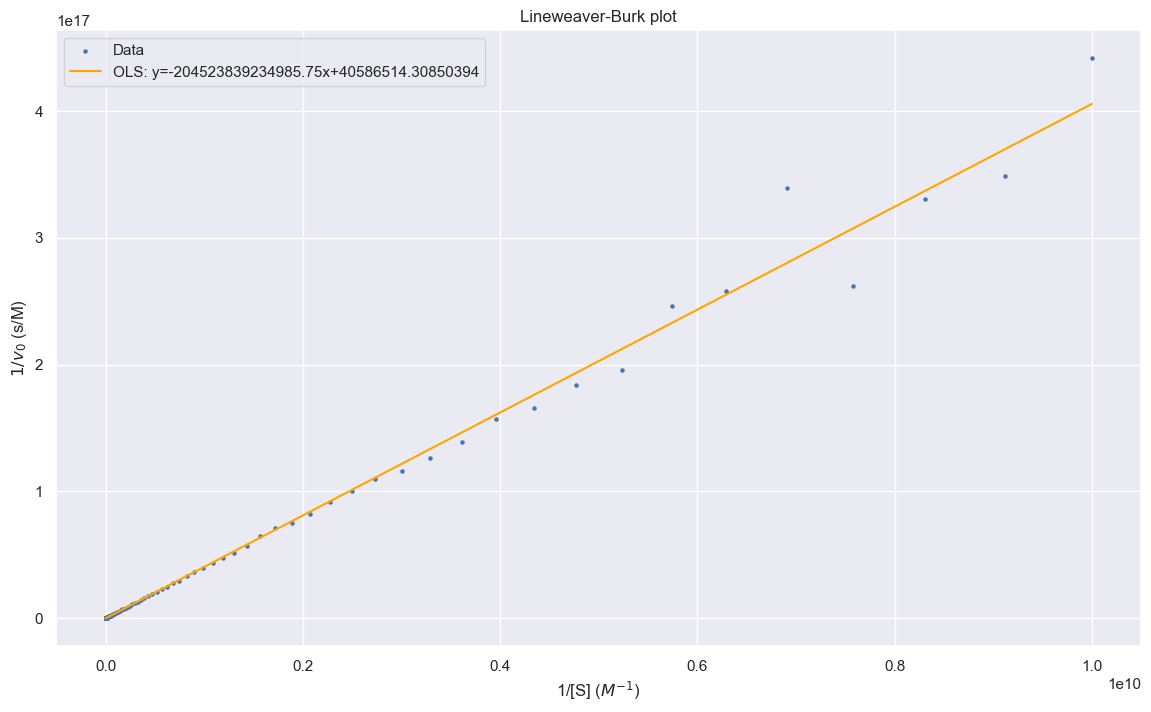
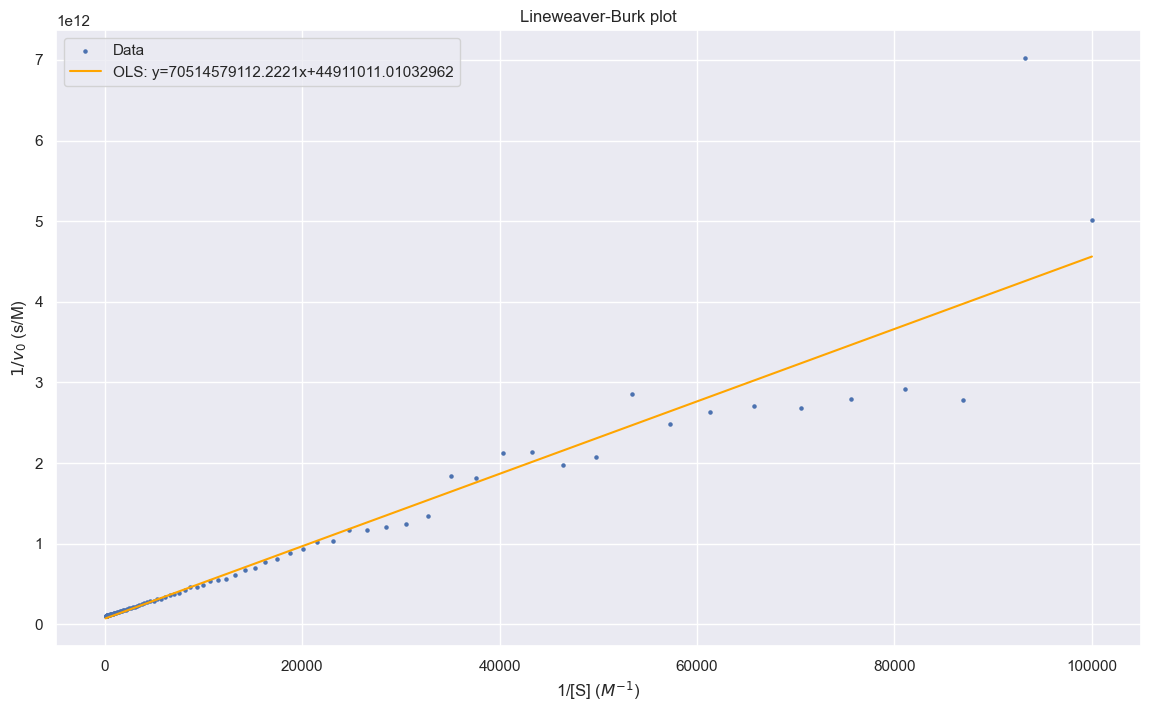
Inhibition

diff --git a/projects/Biophysics-Book/biophysics.html b/projects/Biophysics-Book/biophysics.html
@@ -292,7 +292,23 @@
             where F is the force, D is the dielectric constant for the medium, \(\varepsilon_0\) is the vacuum permittivity (a constant), \(q_i\) is the charge of particle i, and r is the distance between the two charged particles. 
             In this form of Coulomb's Law, a negative value for F means an attractive force and a positive F means a repulsive force. 
 
+            <h4>Morse Potential</h4>
+            The harmonic oscillator/Hooke's law model is treating a molecule as if it were two nuclei connected by a spring in a classical sense. The potential energy is 
+            $$U=\frac{1}{2}k(r-r_e)^2$$
+            where U is your potential energy of the spring, k is your spring constant, r is the distance between the atoms and \(r_e\) is the equilibrium bond distance. So this energy function looks like a parabola with a minimum at \(r=r_e\).
+<br><br>
 
+            This model is pretty decent at describing behavior close to the equilibrium bond distance, but as r gets further away from \(r_e\), we need a better model. This is where the Morse potential comes in. This is an improved version which takes into account things like nuclear-nuclear repulsion from Pauli's exclusion principle and bond dissociation. When r is too small, the Morse potential jumps in potential energy quicker than with a simple Hooke's law approximation. Bonds can't stretch infinitely; bonds break if separation grows too large. The Morse potential takes this into account by having U asymptotically approach a value in the limit as r goes to infinity instead of continuing to increase quadratically. The limit as r approaches infinity is your bond dissociation energy.
+The equation for the morse potential is given by 
+$$U(r)=D_e (1-e^{-a(r-r_e)})^2$$
+where \(D_e\) is related to the dissociation energy. 
+
+
+<h4>Lennard-Jones Potential</h4>
+The Lennard-Jones potential describes Van der Waals interactions between two molecules. 
+The potential is given by
+
+$$U(r)=4\varepsilon \left[(\frac{\sigma}{r})^{12}-(\frac{\sigma}{r})^6\right]$$
 
 
             </div>
@@ -407,6 +423,10 @@
         <div id="Statistical-Mechanics">
             <h2>Statistical Mechanics</h2>
             <h3>Boltzmann Distribution</h3>
+
+            A system at equilibrium obeys what is known as a <b>Boltzmann Distribution</b>. 
+            This distribution maximizes <b>total entropy</b>, not the entropy of the system. 
+
 
 
 
@@ -635,9 +655,9 @@
 k_M = 4e-4
 k_cat = 10
 E_0 = 1e-12
-S_array = np.geomspace(1e-10,1e-2,200)
+S_array = np.geomspace(1e-5,1e-2,100)
 v_array = k_cat*E_0*S_array/(k_M+S_array)
-noise = np.random.normal(size=(200))*1e-14
+noise = np.random.normal(size=(100))*5e-14
 v_array = v_array + noise
 plt.figure(figsize=(14,8))
 plt.scatter(S_array, v_array,s=5)
@@ -662,9 +682,9 @@ plt.show()</pre>
 k_M = 4e-4
 k_cat = 10
 E_0 = 1e-12
-S_array = np.geomspace(1e-10,1e-2,200)
+S_array = np.geomspace(1e-5,1e-2,100)
 v_array = k_cat*E_0*S_array/(k_M+S_array)
-noise = np.random.normal(size=(200))*3e-19
+noise = np.random.normal(size=(100))*5e-14
 v_array = v_array + noise
 S_array_inverse = 1/S_array
 v_array_inverse = 1/v_array
@@ -683,18 +703,121 @@ plt.show()</pre>
             One thing to note is the heteroskedasticity in the graph. Ordinary Least Squares (OLS) is the best, unbiased linear model when the Gauss-Markov conditions are satisfied - one of which is homoskedasticity (variance of errors is constant over X). 
             In practice, this can lead to bad estimates as the noisy values on the right can drastically affect the best-fit parameters.
 
+<h3>Inhibition</h3>
+
+<figure><a href="https://commons.wikimedia.org/wiki/File:Inhibition-types.jpg#/media/File:Inhibition-types.jpg"><img src="https://upload.wikimedia.org/wikipedia/commons/d/dc/Inhibition-types.jpg" alt="Inhibition-types.jpg" style="max-height: 300px;"></a><br>By <a href="//commons.wikimedia.org/w/index.php?title=User:Athel_cb&amp;amp;action=edit&amp;amp;redlink=1" class="new" title="User:Athel cb (page does not exist)">Athel cb</a> - <span class="int-own-work" lang="en">Own work</span>, <a href="https://creativecommons.org/licenses/by-sa/4.0" title="Creative Commons Attribution-Share Alike 4.0">CC BY-SA 4.0</a>, <a href="https://commons.wikimedia.org/w/index.php?curid=130486959">Link</a></figure>
+
             <h4>Competitive Inhibition</h4>
             We had previously just considered the scenario where the substrate had no competition for binding to the active site, but the equation can be extended easily to include the presence of another moelecule that can bind to the same active site as the substrate, but will not undergo the catalytic reaction. 
 
             Let us assume the same dynamics, but with the addition of a side reaction:
             $$S+E\rightleftharpoons_{k_{-1}}^{k_1} E\cdot S \rightarrow^{k_{cat}} E+P$$
 
-            $$E+I\rightleftharpoons_{k_I}^{k_{-I}} E\cdot I$$
+            $$E+I\rightleftharpoons_{k_2}^{k_{-2}} E\cdot I$$
             Since there is a new state can consume E to enter and product E when it leaves, this will change our equation for \(\frac{d[E]}{dt}\) as well as create new equations for \(\frac{d[E\cdot I]}{dt}\) and \(\frac{d[I]}{dt}\). 
+            We can denote the equilibrium constant for the association of the Enzyme-Inhibitor complex to be \(K_I\).
+
+            $$K_I=\frac{k_{-2}}{k_2}$$
+            $$\frac{[E][I]}{[E\cdot I]}=K_I\sim\frac{[E]I_0}{[Y]}$$
+            $$E_0=[E]+[E\cdot S] +[E\cdot I]$$
+            $$[E]=E_0-[E\cdot S]-[Y]$$
+            $$[E]=E_0-[E\cdot S]-\frac{[E]I_0}{K_I}$$
+            $$[E](1+\frac{I_0}{K_I})=E_0-[E\cdot S]$$
 
 
 
+            $$[E]=\frac{E_0-[E\cdot S]}{1+\frac{I_0}{K_I}}$$
+            Let us define a constant \(\alpha\) such that
+            $$\alpha\equiv 1+\frac{I_0}{K_I}$$
+            $$[E]=\frac{E_0-[E\cdot S]}{\alpha}$$
 
+            $$0=\frac{d[E\cdot S]}{dt}=k_1[E][S]-k_{cat}[E\cdot S]-k_{-1}[E\cdot S]$$
+            $$[E\cdot S](k_{cat}+k_{-1})=k_1[E][S]$$
+            $$[E\cdot S]=\frac{1}{K_M}[E][S]$$
+            $$\approx \frac{1}{k_M}[E]S_0$$
+            $$[E\cdot S]_{ss}=\frac{S_0}{k_M}\times\frac{E_0-[E\cdot S]_{ss}}{\alpha}$$
+            $$[E\cdot S]_{ss}(1+\frac{S_0}{k_M\alpha})=\frac{S_0E_0}{\alpha k_M}$$
+            $$[E\cdot S]_{ss}=\frac{\frac{S_0E_0}{k_M\alpha}}{1+\frac{S_0}{k_M\alpha}}$$
+            $$=\frac{E_0}{1+\frac{\alpha k_M}{S_0}}$$
+
+            Now finally plugging in the concentration into the product formation kinetic equation:
+
+            $$v_0=k_{cat}[E\cdot S]_{ss}=\frac{k_{cat}E_0}{1+\frac{\alpha k_M}{S_0}}$$
+
+            <img src="LineweaverBurkInhib.png" style="margin:auto; display: block;  width:clamp(400px,50vw, 1000px)"/>
+            Python code:
+            <code style="margin: auto; width: 50%;"><pre>
+k_M = 4e-4
+k_cat = 10
+E_0 = 1e-12
+S_array = np.geomspace(5e-3,1e-2,200)
+test_points = 1/np.array([-0.1,5e-3])
+
+alpha = 1
+v_array = k_cat*E_0/(1+k_cat*alpha/S_array)
+noise = np.random.normal(size=(200))*.5e-16
+v_array = v_array + noise
+S_array_inverse = 1/S_array
+v_array_inverse = 1/v_array
+ax = plt.figure(figsize=(14,8))
+plt.scatter(S_array_inverse, v_array_inverse,s=5)
+model = sm.OLS(v_array_inverse, sm.add_constant(S_array_inverse))
+results = model.fit()
+plt.plot(test_points, results.predict(sm.add_constant(test_points)),color='green')
+
+alpha = 1.5
+v_array = k_cat*E_0/(1+k_cat*alpha/S_array)
+noise = np.random.normal(size=(200))*.5e-16
+v_array = v_array + noise
+S_array_inverse = 1/S_array
+v_array_inverse = 1/v_array
+plt.scatter(S_array_inverse, v_array_inverse,s=5,color='red')
+model2 = sm.OLS(v_array_inverse, sm.add_constant(S_array_inverse))
+results2 = model2.fit()
+plt.plot(test_points, results2.predict(sm.add_constant(test_points)),color='orange')
+
+
+plt.title("Lineweaver-Burk plot")
+plt.xlabel("1/[S] ($M^{-1}$)")
+plt.ylabel(f"$1/v_0$ (s/M)")
+plt.legend(['Data (No inhib)',f'OLS: y={results.params[0]:.2E}x+{results.params[1]}','Data (Inhib)', f'OLS: y={results2.params[0]}x+{results2.params[1]}'])
+plt.show()</pre>
+            </code>
+
+While it is not apparent in the figure, as the inhibitor is added, the line rotates counter-clockwise, with the y-intercept remaining the same. 
+The following are the effects of competitive inhibition:
+<ol>
+    <li>v_max stays the same</li>
+    <li>k_M <b>increases</b> as more substrate is required to reach half max velocity</li>
+</ol>
+
+        <h4>Uncompetitive Inhibition</h4>
+
+        Uncompetitive inhibition involves the following dynamics:
+
+        $$S+E\rightleftharpoons_{k_{-1}}^{k_1} E\cdot S \rightarrow^{k_{cat}} E+P$$
+
+        $$E\cdot S+I\rightleftharpoons_{k_2}^{k_{-2}} E\cdot S\cdot I$$
+
+        With this form of inhibition, the inhibitor binds to the \(E\cdot S\) complex, not E, and prevents enzyme activity as well as substrate dissociation. In a Lineweaver-Burk plot, this would appear as a parallel shift downward. 
+
+        The following are the effects of uncompetitive inhibition:
+        <ol>
+            <li>v_max decreases</li>
+            <li>k_M <b>decreases</b></li>
+        </ol>
+
+        <h4>Non-competitive Inhibition</h4>
+        While similar in name to uncompetitive, non-competitive inhibition is distinct from it. 
+        Non-competitive inhibition does not involve the inhibitor binding to the active site, instead it binds to an "allosteric site." 
+        The inhibitor can bind to both E and \(E\cdot S\). Similarly, the substrate is able to bind and unbind to both E and \(E\cdot I\). 
+<br><br>
+This has the effect of essentially reducing the amount of enzyme present, as if less had been added in the first place. 
+The following are the effects of non-competitive inhibition:
+<ol>
+    <li>v_max decreases</li>
+    <li>k_M is unaffected</li>
+</ol>
 
 
 
